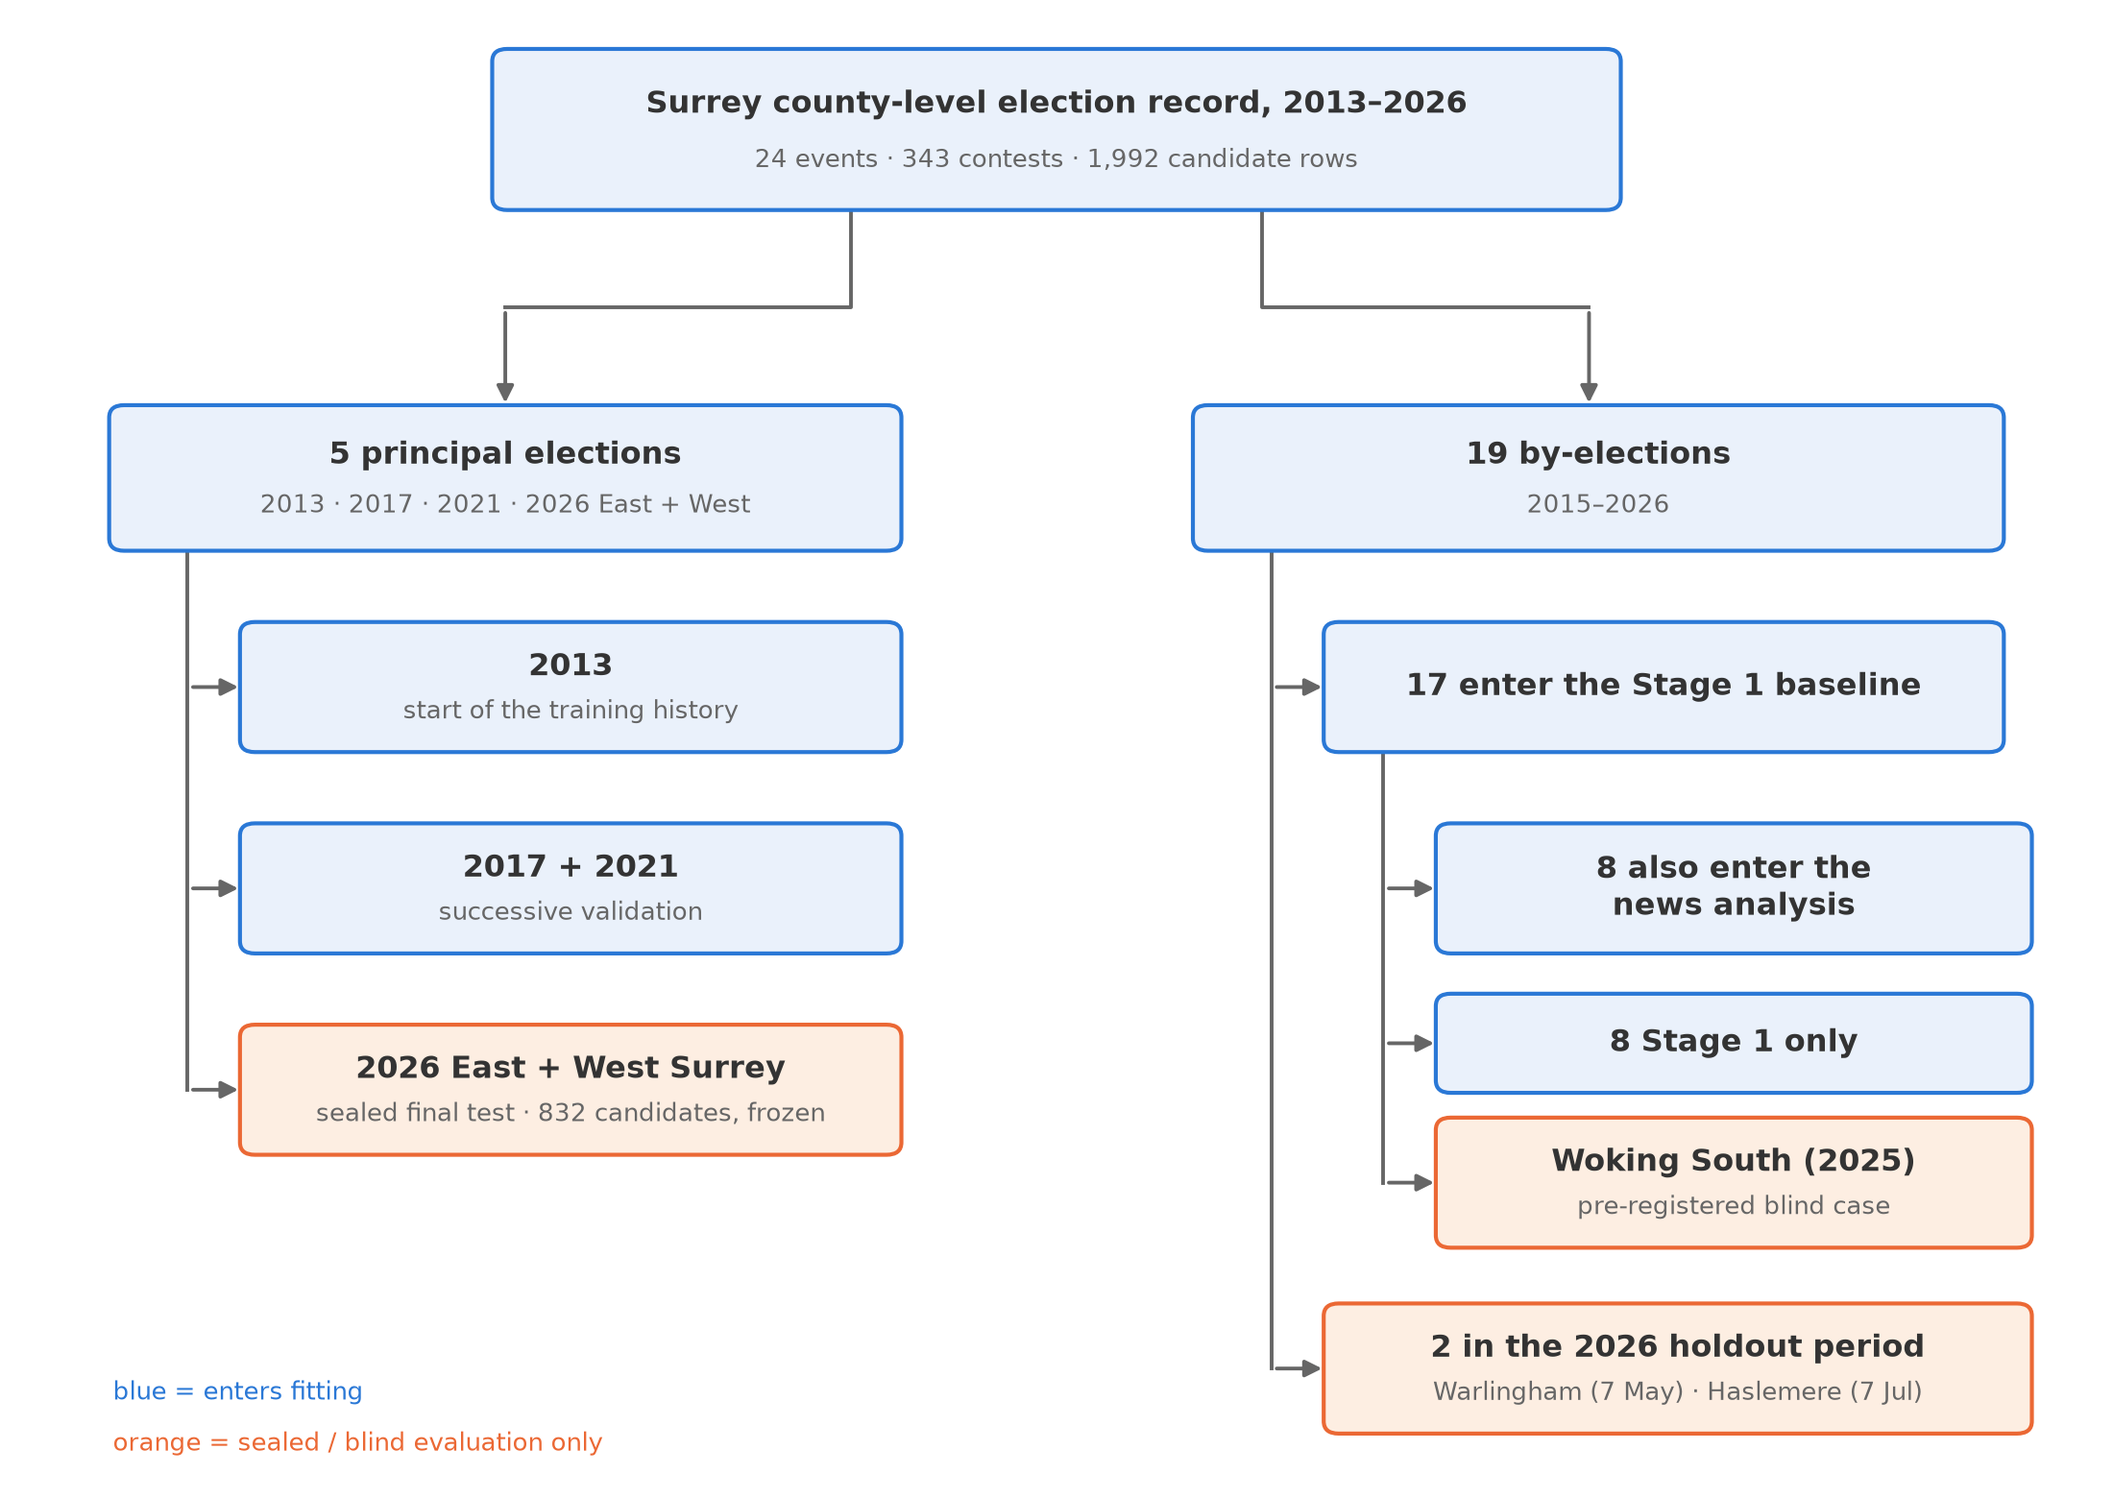
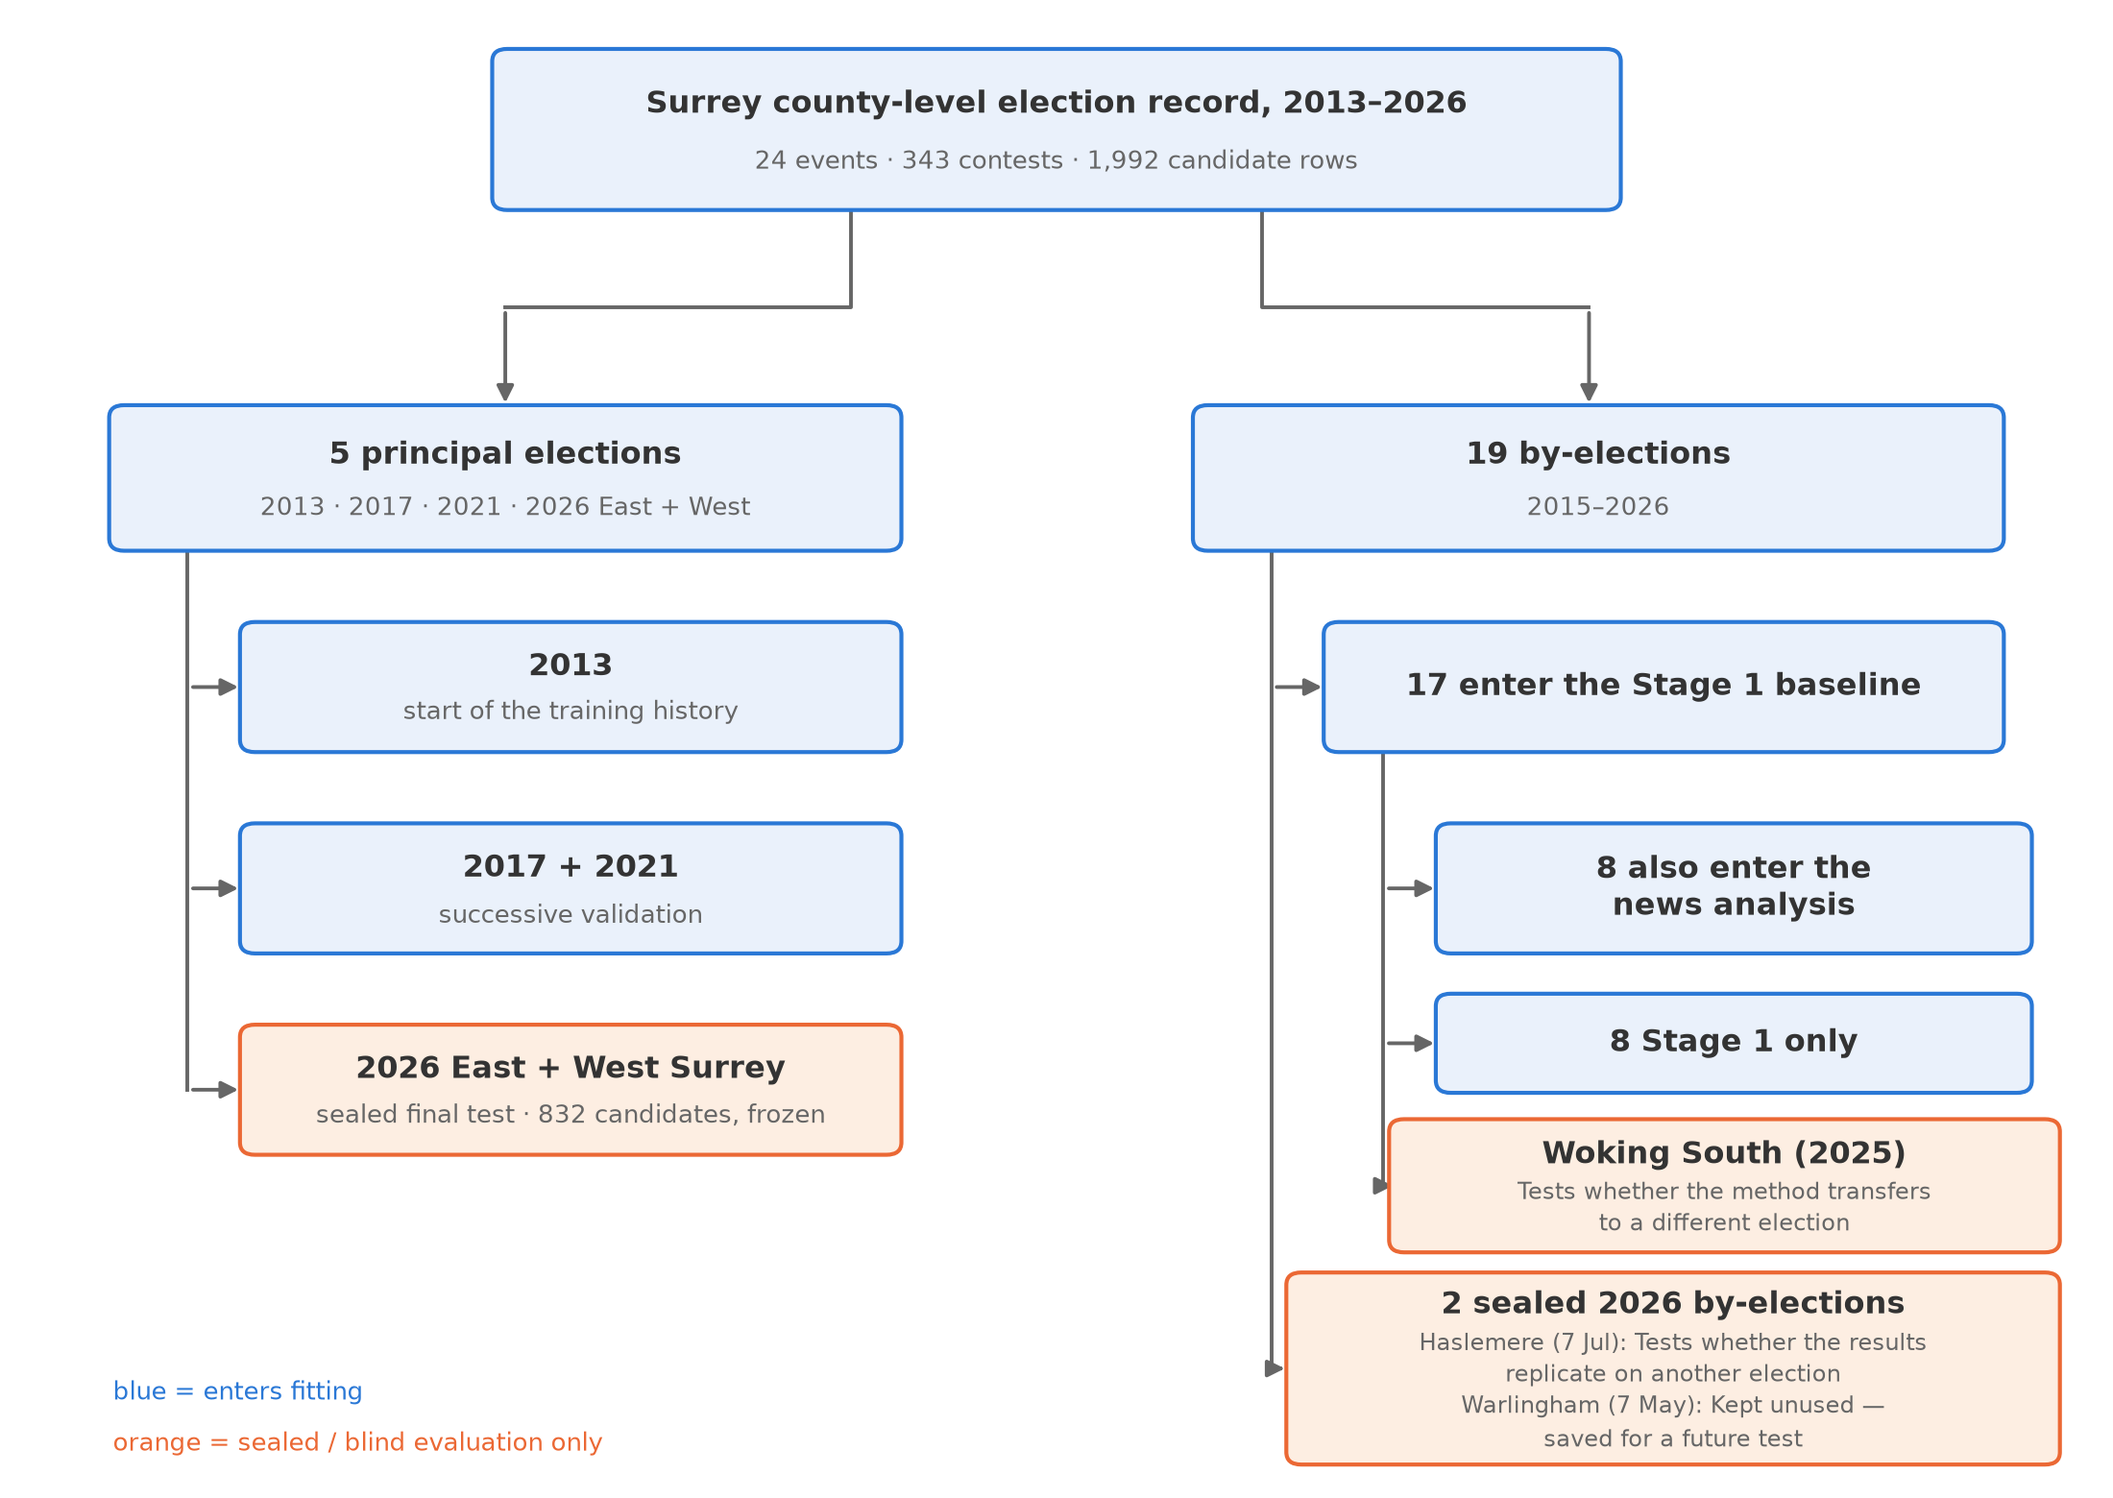
Report revision: Reform per-party split figure, appendix tables a14-a19, figure label fixes
What: adds reform_party_split_figure.py and its fig8 output (per-party
delta-MAE split: non-Reform gains vs Reform losses, with the weighted
overall bar); adds six hand-built appendix tables (a14 eligibility rules,
a15 local sensitivity, a16 combined cumulative RMSE, a17 LOPO, a18
Reform-cell attribution, a19 Reform split); updates the study-design and
pipeline-overview figures (clearer holdout-box labels, v2 corpus counts)
and refreshes the report figure snapshots including the island-contrast
figure now used in the report.

Why: the diagnostic review found that the old decomposition figure did
not match the ablation numbers cited in the text, and several cited
numbers had no committed artefact to trace to. These files give every
revised report claim a committed, regenerable home, keeping the
report-cites-only-committed-artefacts rule intact.

diff --git a/src/news_modelling/reform_party_split_figure.py b/src/news_modelling/reform_party_split_figure.py
@@ -1,0 +1,89 @@
+"""Reform vs non-Reform per-party delta-MAE by window (frozen combined arm).
+
+Draws the "helps others, hurts Reform" split as a clean grouped bar chart,
+replacing the a19 table. Data source: reform_decomposition.json (frozen arm).
+"""
+import json
+from pathlib import Path
+
+import matplotlib.pyplot as plt
+import numpy as np
+
+ROOT = Path(__file__).resolve().parents[2]
+SRC = ROOT / "news_features" / "reform_decomposition_v1" / "reform_decomposition.json"
+OUT = ROOT / "report" / "figures" / "fig8_reform_party_split.png"
+OUT2 = ROOT / "outputs" / "report_figures_v1" / "fig8_reform_party_split.png"
+
+WINDOW_LABELS = {
+    "180_to_91_days": "180-91 d",
+    "90_to_31_days": "90-31 d",
+    "30_to_15_days": "30-15 d",
+    "14_to_8_days": "14-8 d",
+    "7_to_4_days": "7-4 d",
+    "final_72_hours": "final 72h",
+}
+
+
+def main():
+    data = json.loads(SRC.read_text())
+    frozen = data["arms"]["frozen"]
+
+    windows = [WINDOW_LABELS[item["window"]] for item in frozen]
+    non_reform = [item["non_reform"]["delta"] for item in frozen]
+    reform = [item["reform"]["delta"] for item in frozen]
+    overall = [item["all"]["delta"] for item in frozen]
+    n_nr = frozen[0]["non_reform"]["n"]
+    n_rf = frozen[0]["reform"]["n"]
+    n_all = frozen[0]["all"]["n"]
+
+    x = np.arange(len(windows))
+    w = 0.27
+
+    fig, ax = plt.subplots(figsize=(11.5, 5.8))
+    ax.bar(x - w, non_reform, w, label=f"Non-Reform (n={n_nr})", color="#2166ac")
+    ax.bar(x, overall, w, label=f"Overall (n={n_all})", color="#9e9e9e")
+    ax.bar(x + w, reform, w, label=f"Reform UK (n={n_rf})", color="#b2182b")
+
+    ax.axhline(0, color="black", linewidth=0.8)
+
+    # label every bar at its tip: positive above, negative below
+    def label_bars(vals, xpos):
+        for xi, v in zip(xpos, vals):
+            above = v >= 0
+            ax.annotate(f"{v:+.2f}", (xi, v),
+                        textcoords="offset points",
+                        xytext=(0, 3 if above else -11),
+                        ha="center", va="bottom" if above else "top",
+                        fontsize=7)
+
+    label_bars(non_reform, x - w)
+    label_bars(overall, x)
+    label_bars(reform, x + w)
+
+    allvals = reform + non_reform + overall
+    lo, hi = min(allvals), max(allvals)
+    ax.set_ylim(lo - 0.45, hi + 0.35)
+
+    ax.set_xticks(x)
+    ax.set_xticklabels(windows)
+    ax.set_ylabel(r"$\Delta$MAE  (positive = news lowered error)")
+    ax.set_title("Per-party change in MAE from adding news, by window (2026)",
+                 fontsize=12, weight="bold")
+    # legend outside the plot area (right), never overlaps bars
+    ax.legend(loc="upper left", bbox_to_anchor=(1.01, 1.0), frameon=False)
+
+    ax.grid(axis="y", linestyle=":", alpha=0.4)
+    for spine in ("top", "right"):
+        ax.spines[spine].set_visible(False)
+    fig.tight_layout()
+
+    OUT.parent.mkdir(parents=True, exist_ok=True)
+    OUT2.parent.mkdir(parents=True, exist_ok=True)
+    fig.savefig(OUT, dpi=200, bbox_inches="tight")
+    fig.savefig(OUT2, dpi=200, bbox_inches="tight")
+    print(f"saved: {OUT}")
+    print(f"saved: {OUT2}")
+
+
+if __name__ == "__main__":
+    main()

diff --git a/src/news_modelling/study_design_figure.py b/src/news_modelling/study_design_figure.py
@@ -85,7 +85,8 @@ def _counts() -> dict:
             "blinded_rows": protocol["blinded_candidate_rows"]}
 
 
-def _box(ax, xy, width, height, title, subtitle="", sealed=False):
+def _box(ax, xy, width, height, title, subtitle="", sealed=False,
+         subtitle_size=9.5, title_frac=0.66, subtitle_frac=0.30):
     x, y = xy
     edge, face = ((ORANGE, ORANGE_FACE) if sealed else (BLUE, BLUE_FACE))
     ax.add_patch(FancyBboxPatch(
@@ -93,11 +94,12 @@ def _box(ax, xy, width, height, title, subtitle="", sealed=False):
         boxstyle="round,pad=0.02,rounding_size=0.08",
         linewidth=1.5, edgecolor=edge, facecolor=face, zorder=3))
     if subtitle:
-        ax.text(x + width / 2, y + height * 0.66, title, ha="center",
+        ax.text(x + width / 2, y + height * title_frac, title, ha="center",
                 va="center", fontsize=11.5, color=INK, weight="bold",
                 zorder=4)
-        ax.text(x + width / 2, y + height * 0.30, subtitle, ha="center",
-                va="center", fontsize=9.5, color=MUTED, zorder=4)
+        ax.text(x + width / 2, y + height * subtitle_frac, subtitle,
+                ha="center", va="center", fontsize=subtitle_size,
+                color=MUTED, zorder=4, linespacing=1.35)
     else:
         ax.text(x + width / 2, y + height / 2, title, ha="center",
                 va="center", fontsize=11.5, color=INK, weight="bold",
@@ -154,16 +156,23 @@ def main() -> None:
          "frozen", sealed=True)
 
     # By-election roles.
-    _spine(ax, 6.65, 5.95, [(5.05, 6.95), (0.65, 6.95)])
+    _spine(ax, 6.65, 5.95, [(5.05, 6.95), (0.65, 6.75)])
     _box(ax, (6.95, 4.65), 3.6, 0.8, "17 enter the Stage 1 baseline")
-    _spine(ax, 7.25, 4.65, [(3.75, 7.55), (2.75, 7.55), (1.85, 7.55)])
+    _spine(ax, 7.25, 4.65, [(3.75, 7.55), (2.75, 7.55), (1.83, 7.30)])
     _box(ax, (7.55, 3.35), 3.15, 0.8,
          "8 also enter the\nnews analysis")
     _box(ax, (7.55, 2.45), 3.15, 0.6, "8 Stage 1 only")
-    _box(ax, (7.55, 1.45), 3.15, 0.8, "Woking South (2025)",
-         "pre-registered blind case", sealed=True)
-    _box(ax, (6.95, 0.25), 3.75, 0.8, "2 in the 2026 holdout period",
-         "Warlingham (7 May) \u00b7 Haslemere (7 Jul)", sealed=True)
+    _box(ax, (7.30, 1.42), 3.55, 0.82, "Woking South (2025)",
+         "Tests whether the method transfers\nto a different election",
+         sealed=True, subtitle_size=8.7, title_frac=0.74,
+         subtitle_frac=0.34)
+    _box(ax, (6.75, 0.05), 4.10, 1.20, "2 sealed 2026 by-elections",
+         "Haslemere (7 Jul): Tests whether the results\n"
+         "replicate on another election\n"
+         "Warlingham (7 May): Kept unused —\n"
+         "saved for a future test",
+         sealed=True, subtitle_size=8.7, title_frac=0.84,
+         subtitle_frac=0.38)
 
     ax.text(0.45, 0.45, "blue = enters fitting", fontsize=9.5, color=BLUE)
     ax.text(0.45, 0.12, "orange = sealed / blind evaluation only",

diff --git a/outputs/report_tables_v1/latex/a14_eligibility_rules.tex b/outputs/report_tables_v1/latex/a14_eligibility_rules.tex
@@ -1,0 +1,31 @@
+\begin{tabular}{p{0.10\linewidth}p{0.66\linewidth}p{0.14\linewidth}}
+\toprule
+code & inclusion criterion (all must hold) & applied by \\
+\midrule
+I1 & Confirmed or Probable publication date within the 180-day window ($1 \leq$ day\_index $\leq 180$), or polling day with a confirmed pre-07:00 timestamp & script \\
+I2 & Published before voting began: nothing at or after 07:00 on polling day & script \\
+I3 & Relevant to the arm collected: passes a Local (L1--L4) or National (N1--N3) test & human \\
+I4 & Genuine editorial content: report, analysis, opinion, editorial, letter, interview, profile, or published press release & human \\
+I5 & English language & script \\
+I6 & Minimally retrievable: headline, source, date, and an extract or full text lawfully obtainable & script \\
+\bottomrule
+\end{tabular}
+
+\vspace{1.2em}
+
+\begin{tabular}{p{0.08\linewidth}p{0.68\linewidth}p{0.14\linewidth}}
+\toprule
+code & exclusion rule (checked in order; first failure logged) & applied by \\
+\midrule
+E1 & Date unresolved --- no publication date recoverable at Probable or better confidence & script \\
+E2 & Outside window --- more than 180 days before, or dated after, polling day & script \\
+E3 & Voting under way --- published at/after 07:00 on polling day, or polling-day-dated with no confirmable time & script \\
+E4 & Result leakage --- reports, cites, or reacts to the election's outcome, exit information, or count, regardless of nominal date & human \\
+E5 & Irrelevant --- fails every Local and National relevance rule (e.g. sport or entertainment merely naming a place) & human \\
+E6 & ``Reform'' false positive --- matched only on ``reform'' in its ordinary sense, with no reference to the party & human \\
+E7 & Untrustworthy dating --- only a crawl/capture or republication date is available and the original cannot be recovered & script \\
+E8 & Not editorial content --- adverts, listings, notices, category/index, tag, or search-result pages & human \\
+E9 & Non-English & script \\
+E10 & Irretrievable --- paywall, robots, or login wall blocks even an extract and no archive route succeeds & script \\
+\bottomrule
+\end{tabular}

diff --git a/src/news_modelling/pipeline_overview_figure.py b/src/news_modelling/pipeline_overview_figure.py
@@ -63,6 +63,8 @@ EXTRACTION_OUTPUTS = [
     for tranche in ("narrow", "far", "far2", "far3", "all")
 ]
 FEATURE_METADATA = Path("news_features/news_feature_table_v1_metadata.json")
+CANONICAL_RELEASE_V2 = Path("news_collection/canonical_corpus_release_v2.json")
+FEATURE_METADATA_V2 = Path("news_features/news_feature_table_v2_metadata.json")
 OUTPUT = Path("news_features/pipeline_overview_v1")
 
 BLUE, INK, MUTED = "#2a78d6", "#333333", "#666666"
@@ -154,6 +156,10 @@ def draw() -> None:
     extraction = _extraction_completion()
     shape = _feature_table_shape()
     n = canon["total"]
+    n_v2 = json.loads(CANONICAL_RELEASE_V2.read_text(encoding="utf-8"))[
+        "usable_feature_corpus"]["articles"]
+    meta_v2 = json.loads(FEATURE_METADATA_V2.read_text(encoding="utf-8"))
+    rows_v2 = meta_v2.get("expected_rows") or meta_v2.get("rows")
 
     fig, ax = plt.subplots(figsize=(8, 11))
     ax.set_xlim(0, 8)
@@ -171,9 +177,12 @@ def draw() -> None:
     _box(ax, (2.3, 9.75), 3.4, 0.85, f"{cand['total']:,} candidate articles")
     _arrow(ax, 4.0, 9.75, 8.5, "Eligibility &\nleakage screening")
 
-    # 3. canonical corpus
-    _box(ax, (2.3, 7.65), 3.4, 0.85, f"{n:,} usable articles")
-    _arrow(ax, 4.0, 7.65, 6.4, "LLM\nextraction")
+    # 3. canonical corpus (v1 and v2: v2 adds by-election articles)
+    _box(ax, (2.3, 7.55), 3.4, 0.95, "Usable articles",
+         f"v1: {n:,}   ·   v2: {n_v2:,}")
+    ax.text(5.9, 8.02, f"v2 adds {n_v2 - n} by-election articles",
+            ha="left", va="center", fontsize=8.5, color=MUTED, style="italic")
+    _arrow(ax, 4.0, 7.55, 6.4, "LLM\nextraction")
 
     # 4. three extraction layers
     for i, (label, count) in enumerate([
@@ -189,7 +198,8 @@ def draw() -> None:
 
     # 5. feature table
     _box(ax, (1.6, 2.3), 4.8, 0.9, "News feature table",
-         f"{shape['rows']} rows: one per election \u00d7 party \u00d7 window")
+         f"v1: {shape['rows']}  \u00b7  v2: {rows_v2} rows "
+         "(election \u00d7 party \u00d7 window)")
     _arrow(ax, 4.0, 2.3, 1.05, "Join to\nbaseline")
 
     # 6. Stage 2 input

diff --git a/outputs/report_tables_v1/latex/a18_reform_attribution.tex b/outputs/report_tables_v1/latex/a18_reform_attribution.tex
@@ -1,0 +1,18 @@
+\begin{tabular}{llrrl}
+\toprule
+arm & window & full-fit $\Delta$ & no-Reform $\Delta$ & attribution \\
+\midrule
+combined & 91--180 days & $-0.5751$ & $-1.2684$ & no full-fit improvement \\
+combined & 31--90 days  & $+0.2404$ & $+0.0773$ & improvement retained without Reform cells \\
+combined & 15--30 days  & $+0.1339$ & $+0.0333$ & improvement retained without Reform cells \\
+combined & 8--14 days   & $-0.3252$ & $-0.8817$ & no full-fit improvement \\
+combined & 4--7 days    & $-0.0097$ & $-0.0010$ & no full-fit improvement \\
+combined & final 72h    & $+0.1882$ & $-1.1328$ & improvement lost without Reform cells \\
+national & 91--180 days & $-0.5896$ & $-1.2782$ & no full-fit improvement \\
+national & 31--90 days  & $+0.2682$ & $-0.0015$ & improvement lost without Reform cells \\
+national & 15--30 days  & $-0.0156$ & $-2.6482$ & no full-fit improvement \\
+national & 8--14 days   & $+0.0048$ & $+0.0029$ & improvement retained without Reform cells \\
+national & 4--7 days    & $\phantom{+}0.0000$ & $\phantom{+}0.0000$ & no full-fit improvement \\
+national & final 72h    & $-0.0231$ & $-0.0050$ & no full-fit improvement \\
+\bottomrule
+\end{tabular}

diff --git a/outputs/report_tables_v1/latex/a16_combined_cumulative.tex b/outputs/report_tables_v1/latex/a16_combined_cumulative.tex
@@ -1,0 +1,12 @@
+\begin{tabular}{lrrrrr}
+\toprule
+cumulative window & recal.\ MAE & news MAE & $\Delta$MAE & recal.\ RMSE & news RMSE \\
+\midrule
+previous 72 hours & 4.4454 & 4.2572 & $+0.1882$ & 5.7538 & 5.3666 \\
+previous 7 days   & 4.4454 & 4.0324 & $+0.4130$ & 5.7538 & 5.1499 \\
+previous 14 days  & 4.4454 & 3.8353 & $+0.6101$ & 5.7538 & 4.8741 \\
+previous 30 days  & 4.4454 & 4.1823 & $+0.2632$ & 5.7538 & 5.2824 \\
+previous 90 days  & 4.4454 & 4.2513 & $+0.1942$ & 5.7538 & 5.2685 \\
+previous 180 days & 4.4454 & 4.8365 & $-0.3910$ & 5.7538 & 5.7988 \\
+\bottomrule
+\end{tabular}

diff --git a/outputs/report_tables_v1/latex/a15_local_sensitivity.tex b/outputs/report_tables_v1/latex/a15_local_sensitivity.tex
@@ -1,0 +1,12 @@
+\begin{tabular}{lrrrrr}
+\toprule
+window & recal.\ MAE & news MAE & $\Delta$MAE & recal.\ RMSE & news RMSE \\
+\midrule
+91--180 days & 4.4454 & 4.1560 & $+0.2894$ & 5.7538 & 5.4518 \\
+31--90 days  & 4.4454 & 4.2571 & $+0.1884$ & 5.7538 & 5.3110 \\
+15--30 days  & 4.4454 & 5.0069 & $-0.5614$ & 5.7538 & 6.0874 \\
+8--14 days   & 4.4454 & 4.4271 & $+0.0184$ & 5.7538 & 5.7494 \\
+4--7 days    & 4.4454 & 4.4551 & $-0.0097$ & 5.7538 & 5.7500 \\
+final 72h    & 4.4454 & 5.2784 & $-0.8329$ & 5.7538 & 6.8172 \\
+\bottomrule
+\end{tabular}

diff --git a/outputs/report_tables_v1/latex/a19_reform_split.tex b/outputs/report_tables_v1/latex/a19_reform_split.tex
@@ -1,0 +1,13 @@
+\begin{tabular}{lrrr}
+\toprule
+window & non-Reform $\Delta$MAE & Reform $\Delta$MAE & overall $\Delta$MAE \\
+       & ($n=591$) & ($n=162$) & ($n=753$) \\
+\midrule
+180--91 days & $+0.0360$ & $-2.8046$ & $-0.5751$ \\
+90--31 days  & $+0.4948$ & $-0.6877$ & $+0.2404$ \\
+30--15 days  & $+0.2110$ & $-0.1475$ & $+0.1339$ \\
+14--8 days   & $+0.2087$ & $-2.2729$ & $-0.3252$ \\
+7--4 days    & $-0.0178$ & $+0.0200$ & $-0.0097$ \\
+final 72h    & $+0.7116$ & $-1.7214$ & $+0.1882$ \\
+\bottomrule
+\end{tabular}

diff --git a/outputs/report_tables_v1/latex/a17_lopo_results.tex b/outputs/report_tables_v1/latex/a17_lopo_results.tex
@@ -1,0 +1,13 @@
+\begin{tabular}{lrrr}
+\toprule
+party omitted & comparisons & improvements & coefficient sign flips \\
+\midrule
+Conservative     & 18 & 6 & 3 \\
+Green            & 18 & 0 & 4 \\
+Labour           & 18 & 0 & 2 \\
+Liberal Democrat & 18 & 0 & 5 \\
+UKIP             & 18 & 0 & 4 \\
+\midrule
+Total            & 90 & 6 & --- \\
+\bottomrule
+\end{tabular}
